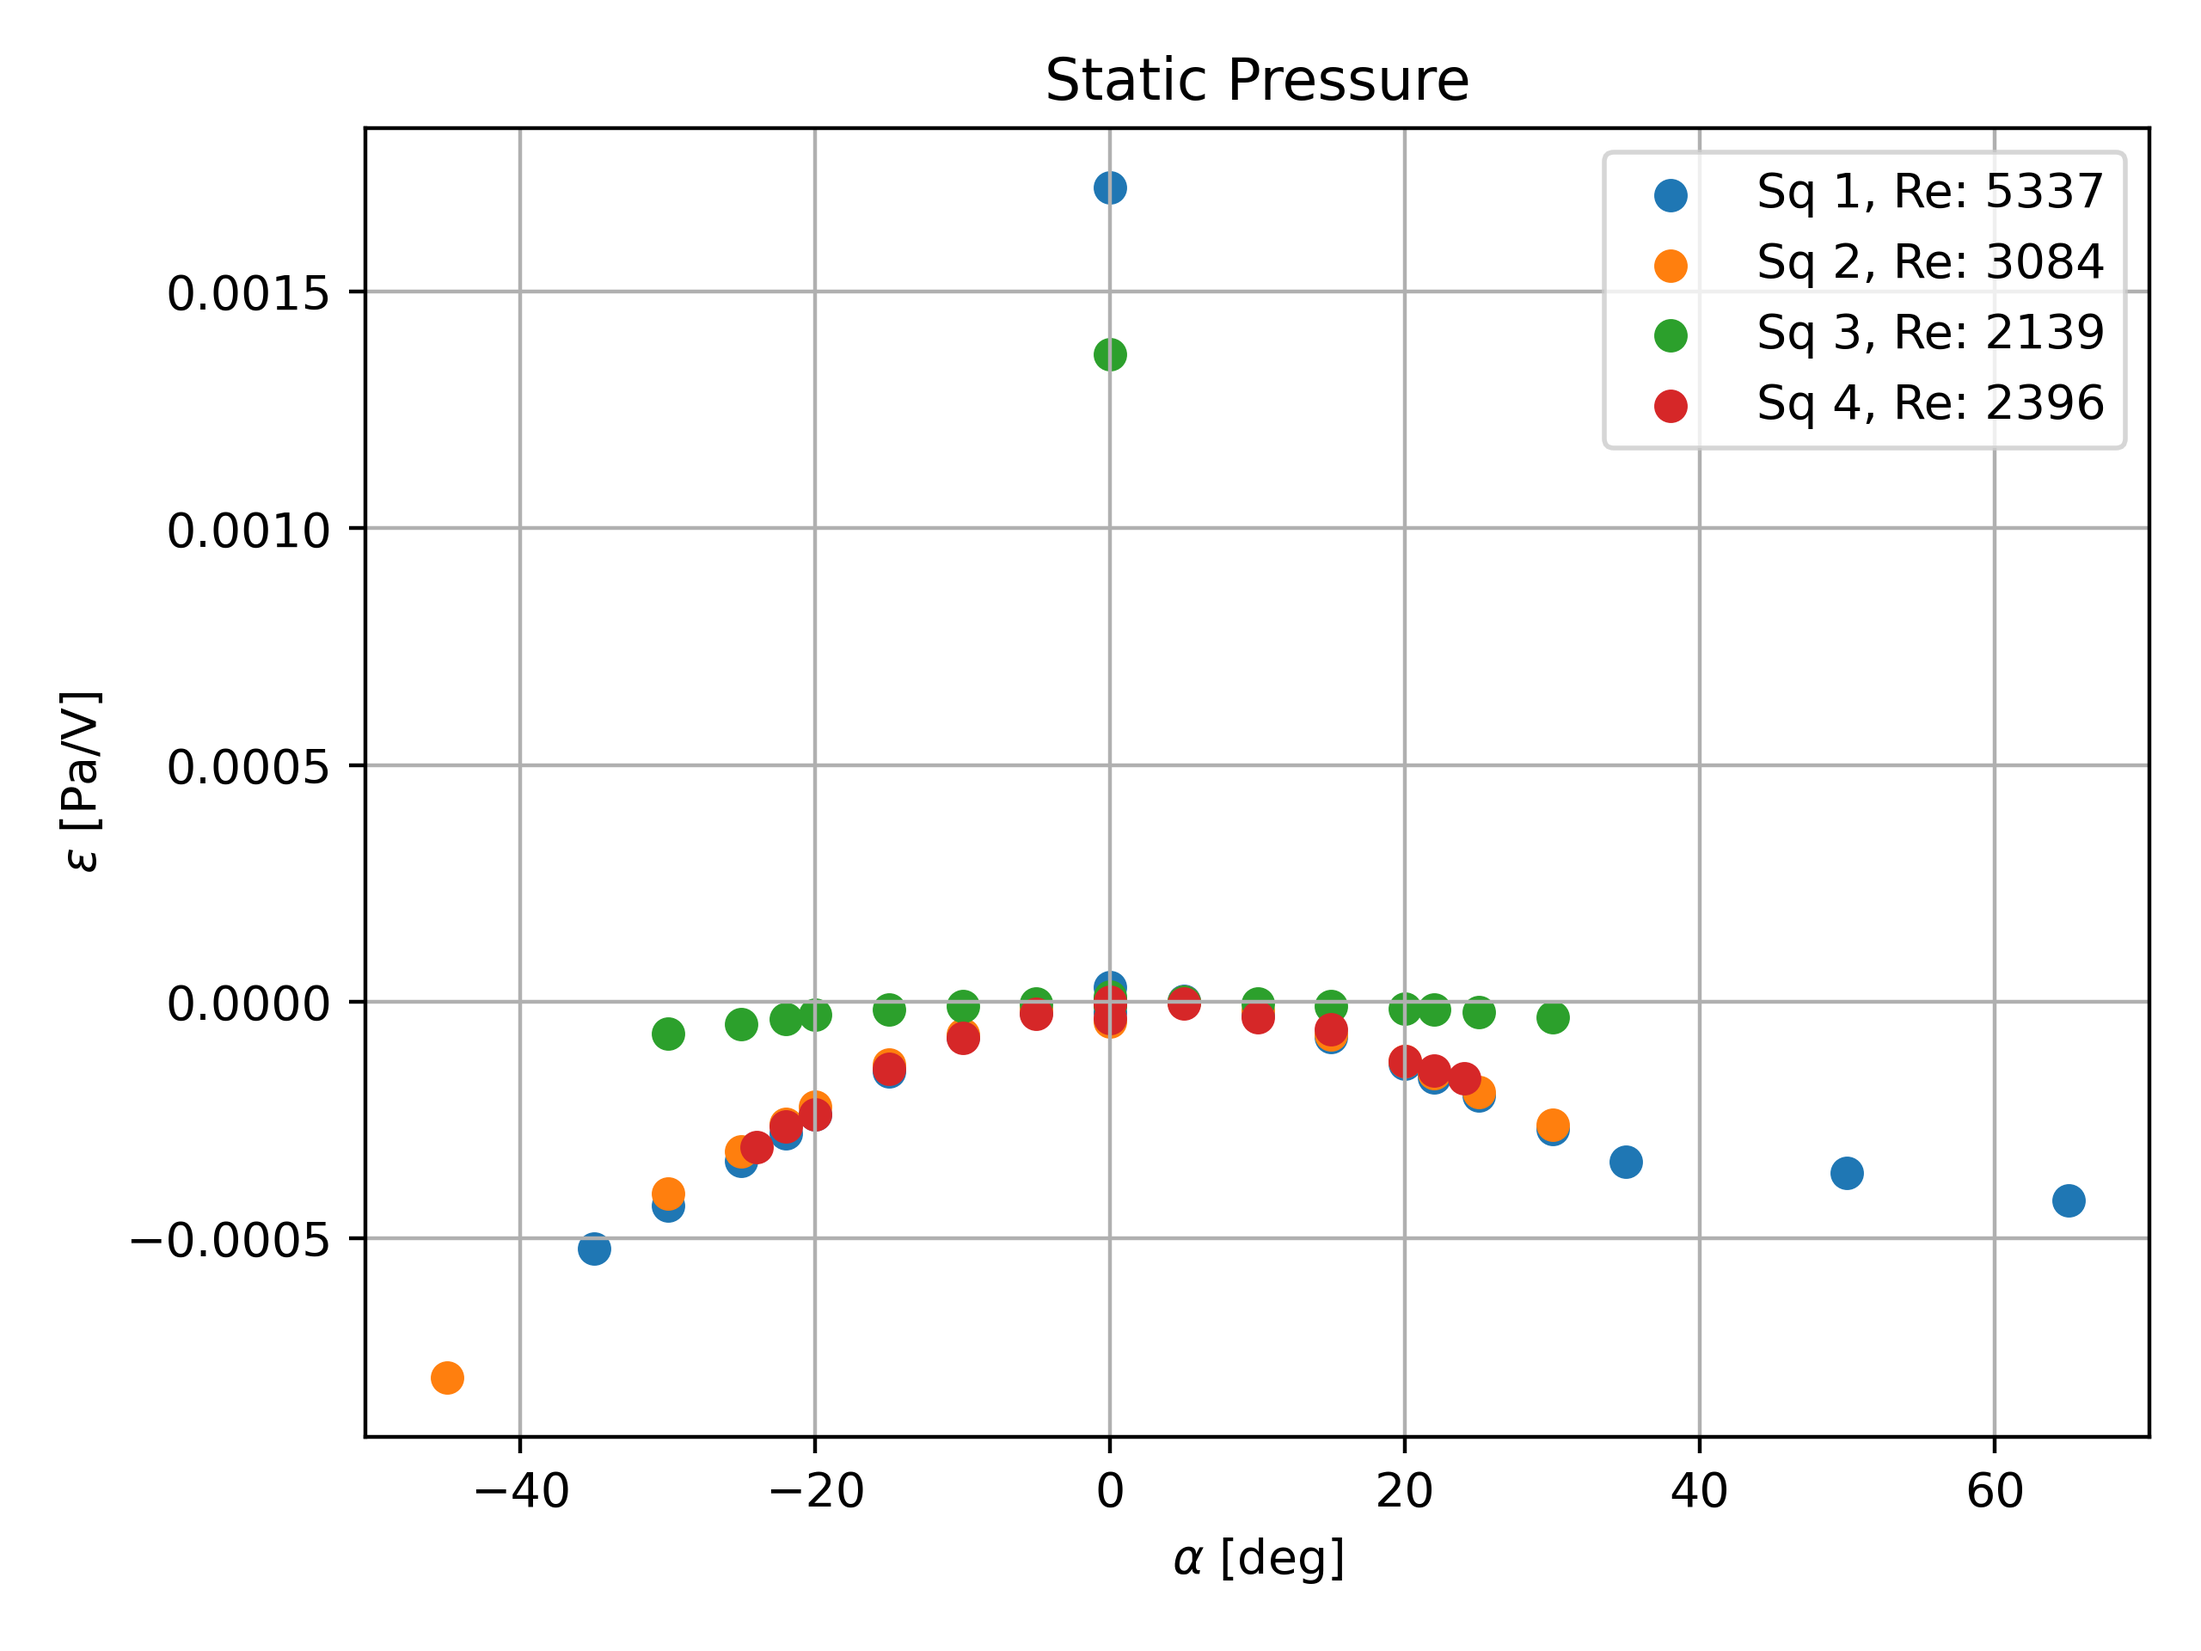
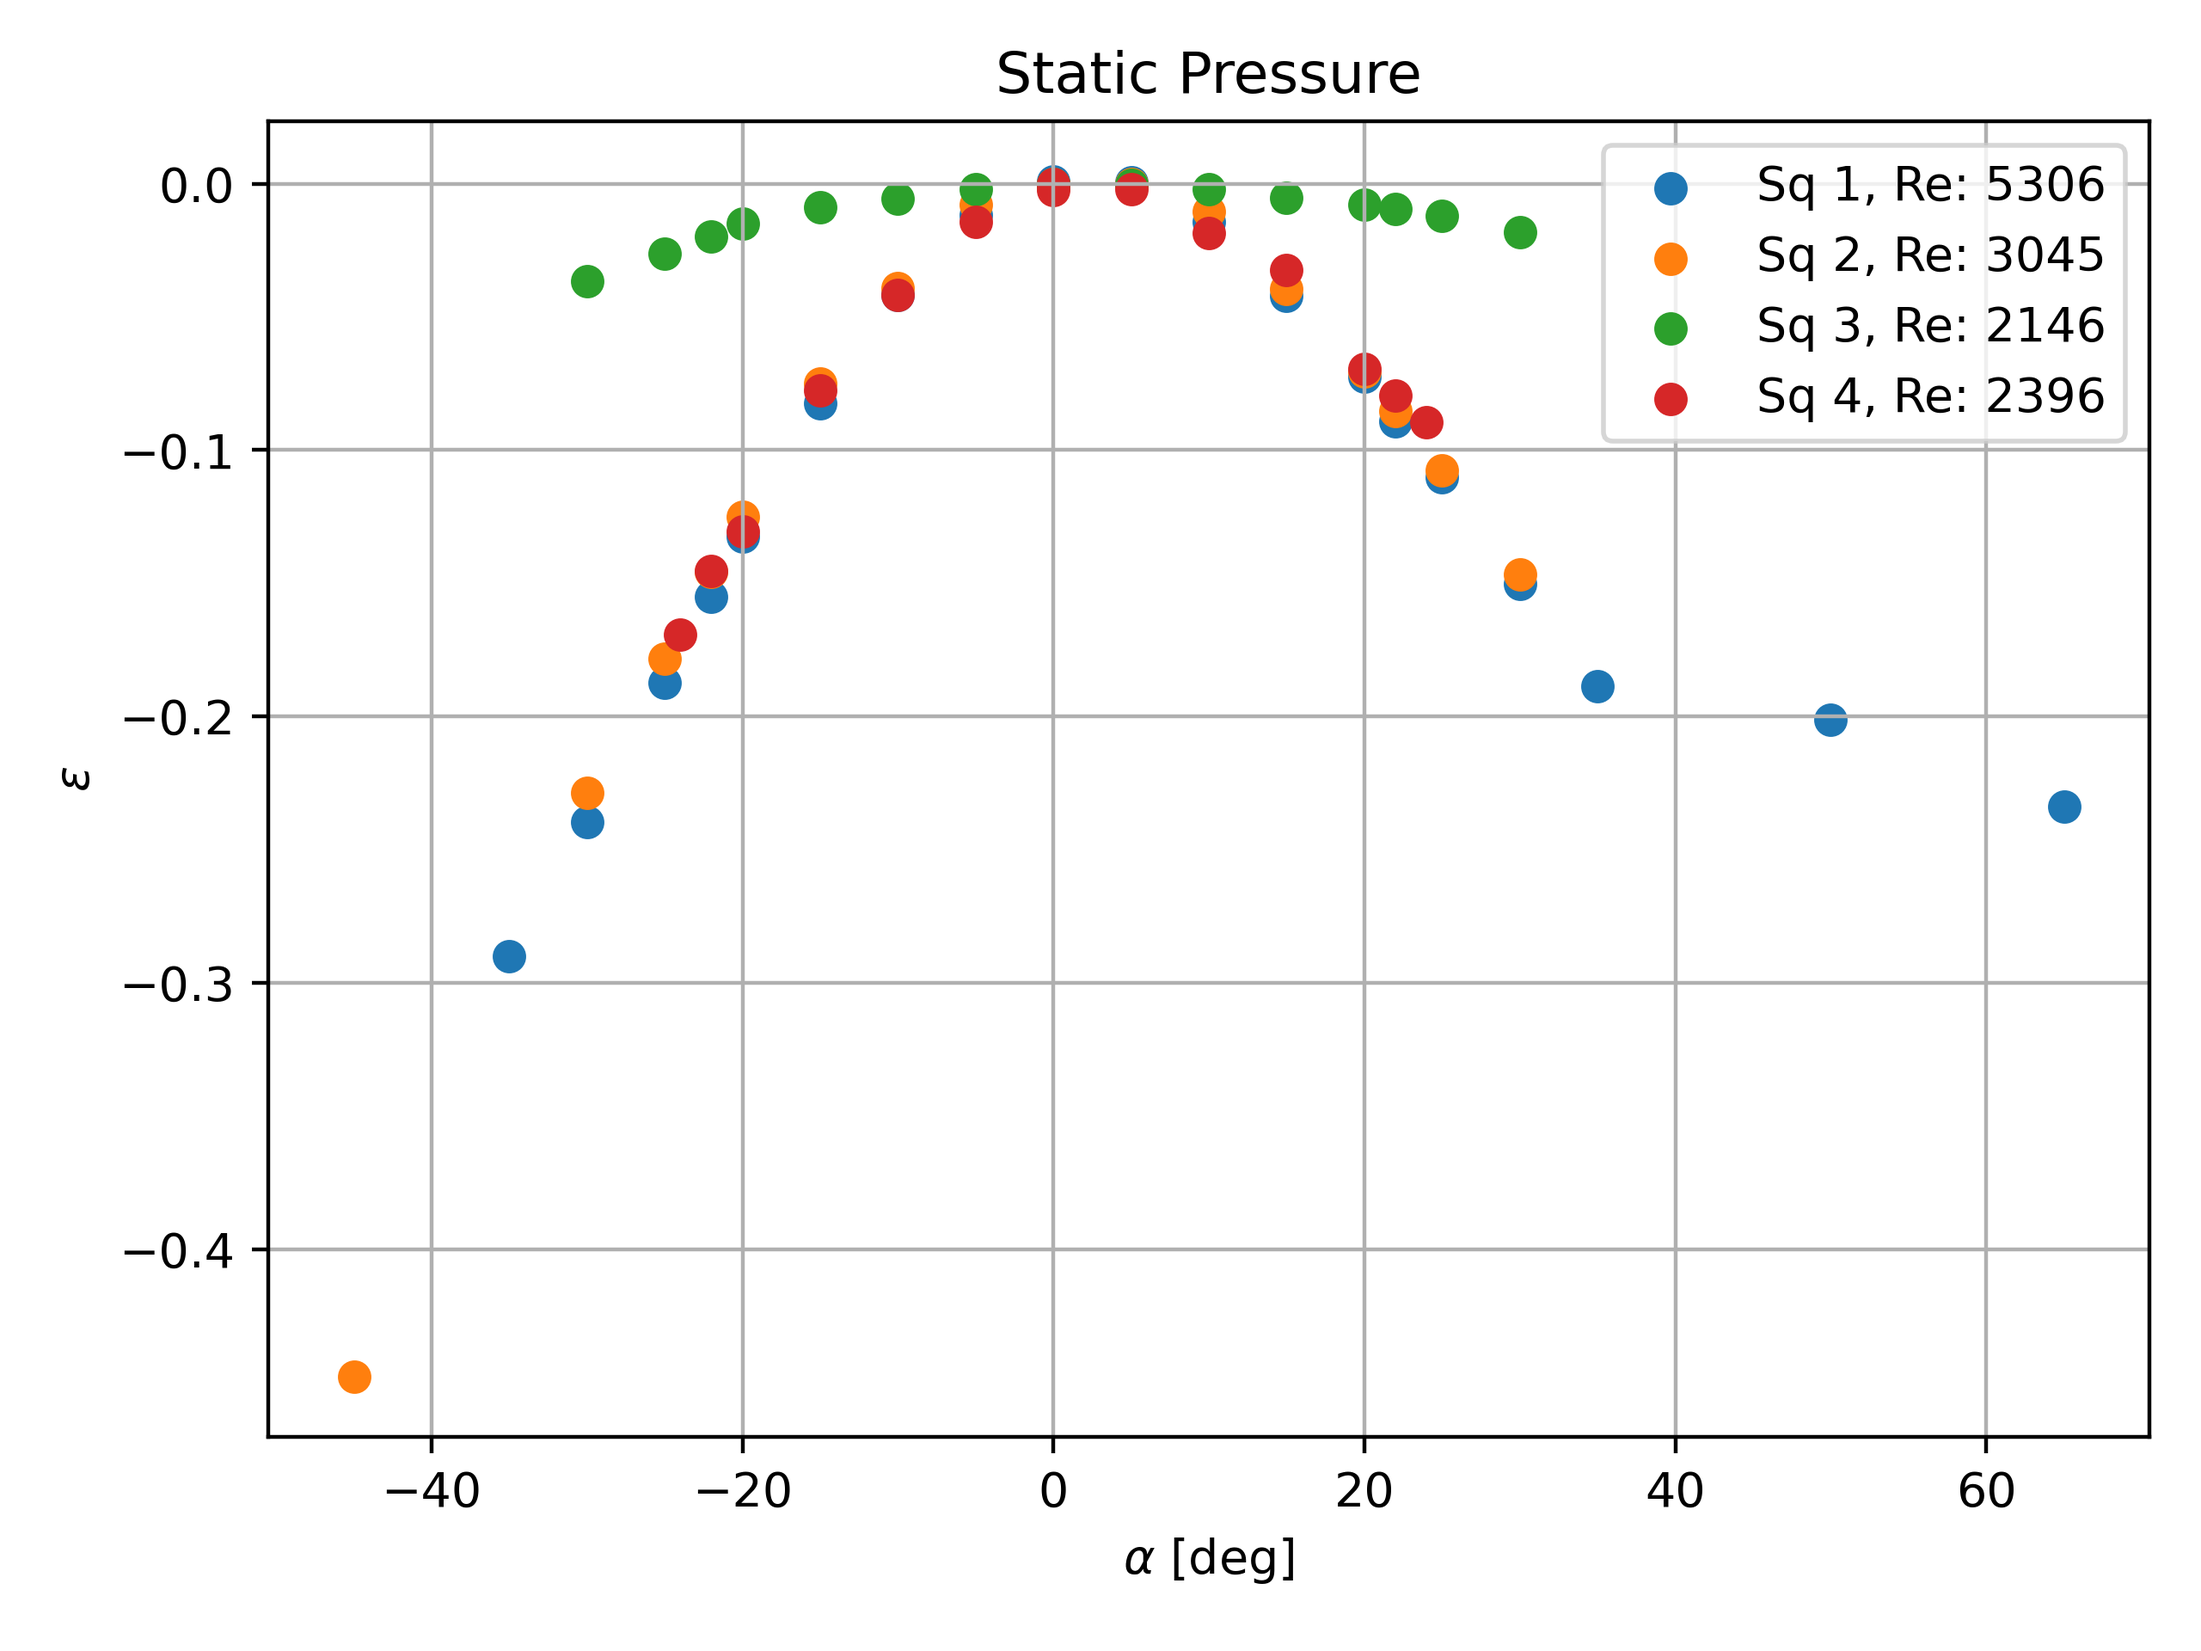
fixes

diff --git a/chapters/scripts.tex b/chapters/scripts.tex
@@ -117,9 +117,9 @@ def main():
     ps, ptot, q = load_files()
 
     qv = []
-    qv.append(Kt*(q[0][2, 1]-q[0][0, 1]))
+    qv.append(Kt*(q[0][1, 1]-q[0][0, 1]))
     qv.append(Kt*(q[1][1, 1]-q[1][0, 1]))
-    qv.append(Kt*(q[2][3, 1]-q[2][0, 1]))
+    qv.append(Kt*(q[2][1, 1]-q[2][0, 1]))
     qv.append(Kt*(q[3][1, 1]-q[3][0, 1]))
     qv = array(qv)
 
@@ -128,17 +128,17 @@ def main():
 
     eps, eptot, eq = [], [], []
     for i in range(4):
-        eps.append((ps[i][:, 1] - ps[i][1, 1])/qv[i])
-        eptot.append((ptot[i][:, 1] - ptot[i][1, 1])/qv[i])
-        eq.append((q[i][:, 1] - q[i][0, 1] - qv[i])/qv[i])
+        eps.append(Kt*(ps[i][1:, 1] - ps[i][1, 1])/qv[i])
+        eptot.append(Kt*(ptot[i][1:, 1] - ptot[i][1, 1])/qv[i])
+        eq.append(Kt*(q[i][1:, 1] - q[i][1, 1])/qv[i])
 
     figure(1)
     for i in range(4):
-        scatter(ps[i][:, 0], eps[i], label=f"Sq {i+1}, Re: {Re[i]:.0f}")
+        scatter(ps[i][1:, 0], eps[i], label=f"Sq {i+1}, Re: {Re[i]:.0f}")
     grid()
     title("Static Pressure")
     xlabel(r"$\alpha$ [deg]")
-    ylabel(r"$\varepsilon$ [Pa/V]")
+    ylabel(r"$\varepsilon$")
     legend()
     tight_layout()
     savefig("images/p", dpi=400)
@@ -146,11 +146,11 @@ def main():
 
     figure(2)
     for i in range(4):
-        scatter(ptot[i][:, 0], eptot[i], label=f"Sq {i+1}, Re: {Re[i]:.0f}")
+        scatter(ptot[i][1:, 0], eptot[i], label=f"Sq {i+1}, Re: {Re[i]:.0f}")
     grid()
     title("Total Pressure")
     xlabel(r"$\alpha$ [deg]")
-    ylabel(r"$\varepsilon$ [Pa/V]")
+    ylabel(r"$\varepsilon$")
     legend()
     tight_layout()
     savefig("images/ptot", dpi=400)
@@ -158,11 +158,11 @@ def main():
 
     figure(3)
     for i in range(4):
-        scatter(q[i][:, 0], eq[i], label=f"Sq {i+1}, Re: {Re[i]:.0f}")
+        scatter(q[i][1:, 0], eq[i], label=f"Sq {i+1}, Re: {Re[i]:.0f}")
     grid()
-    title("Dynamic Pressure")
+    title("Dynamic Pressure")  
     xlabel(r"$\alpha$ [deg]")
-    ylabel(r"$\varepsilon$ [Pa/V]")
+    ylabel(r"$\varepsilon$")
     legend()
     tight_layout()
     savefig("images/q", dpi=400)

diff --git a/chapters/2.tex b/chapters/2.tex
@@ -52,7 +52,7 @@ La catena di misura è dunque costituita da:
 \begin{figure}[ht]
     \centering
     \includegraphics[width=.65\textwidth]{images/2/catena.png}
-    \caption{Catena di misura}
+    \caption{Rappresentazione semplificata della catena di misura, con canali pneumatici in configurazione per la misura della pressione dinamica}
 \end{figure}
 \begin{figure}[h!]
     \centering
@@ -68,6 +68,7 @@ Una volta misurata tale tensione, si può scomporre il segnale in uscita come:
     E(\Delta p) = E_0 + \Delta E(\Delta p)
 \end{equation*}
 Si procede mantenendo una portata costante per ogni squadra e quindi una velocità costante nel cuore potenziale del getto e variando l'angolo di disallineamento $\alpha$ in entrambi i versi di rotazione. Per ogni angolo $\alpha$, misurato tramite una scala graduata, si acquisisce il segnale elettrico di uscita corrispondente.\\\\
+I dati sono acquisiti con una frequenza $f_s=2$ kHz per un periodo di $T=1$ s.\\\\
 I dati grezzi acquisiti durante la procedura sono riportati in appendice \ref{a2}.
 
 \subsection{Analisi dati}
@@ -111,7 +112,8 @@ Infine si calcolano gli errori $\varepsilon$ per la pressione statica, la pressi
 \end{figure}
 
 \noindent I risultati ottenuti corrispondono ai diagrammi presenti in letteratura.\\\\
-Si evidenzia la leggera influenza del numero di Reynolds sulle pendenze delle varie curve sperimentali, in particolar modo di quelle relative alla pressione statica.\\\\
+Dai risultati ottenuti non si evidenzia una particolare influenza dovuta alla variazione del numero di Reynolds.\\\\
+Gli errori nel diagramma della pressione statica per la terza squadra risultano inferiori, probabilmente a causa di un errore sistematico durante la procedura sperimentale.\\\\
 L'evidente asimmetria dei risultati, ottenuti variando all'angolo di disallineamento, è attribuibile all'interferenza dovuta al gambo della sonda di Pitot. Per ovviare a tale problematica sarebbe stato sufficiente orientare il gambo della sonda in direzione normale al piano di rotazione.
 
 \newpage

diff --git a/chapters/1.tex b/chapters/1.tex
@@ -67,6 +67,7 @@ Una volta misurata tale tensione, si può scomporre il segnale in uscita come:
 \end{equation*}
 Si procede variando la portata e quindi la pressione dinamica nel cuore potenziale del getto ed acquisendo per ogni valore di differenza di pressione indicato sul manometro di Betz il valore di tensione in uscita corrispondente.\\\\
 Il manometro di Betz è caratterizzato da una bassa risposta in frequenza, pertanto per ogni variazione di portata del getto è necessario attendere almeno 30 secondi per fare in modo che il manometro di Betz riporti il valore di differenza di pressione corretto sulla scala graduata.\\\\
+I dati sono acquisiti con una frequenza $f_s=2$ kHz per un periodo di $T=1$ s.\\\\
 I dati grezzi acquisiti durante la procedura sono riportati in appendice \ref{a1}.\\\\
 
 \subsection{Analisi dati e costante di taratura}
